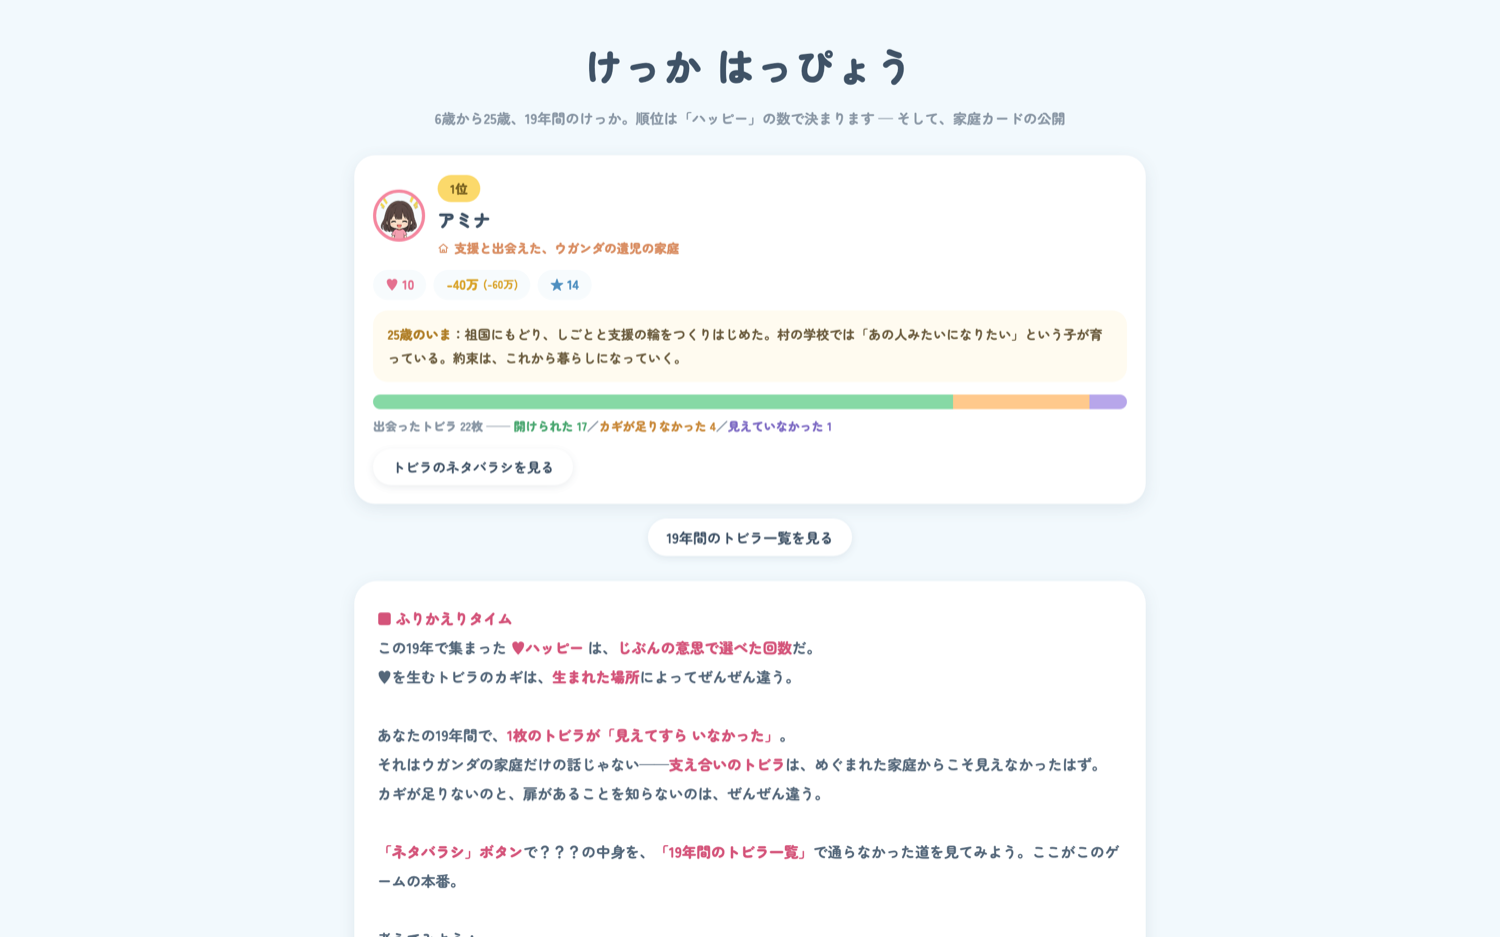
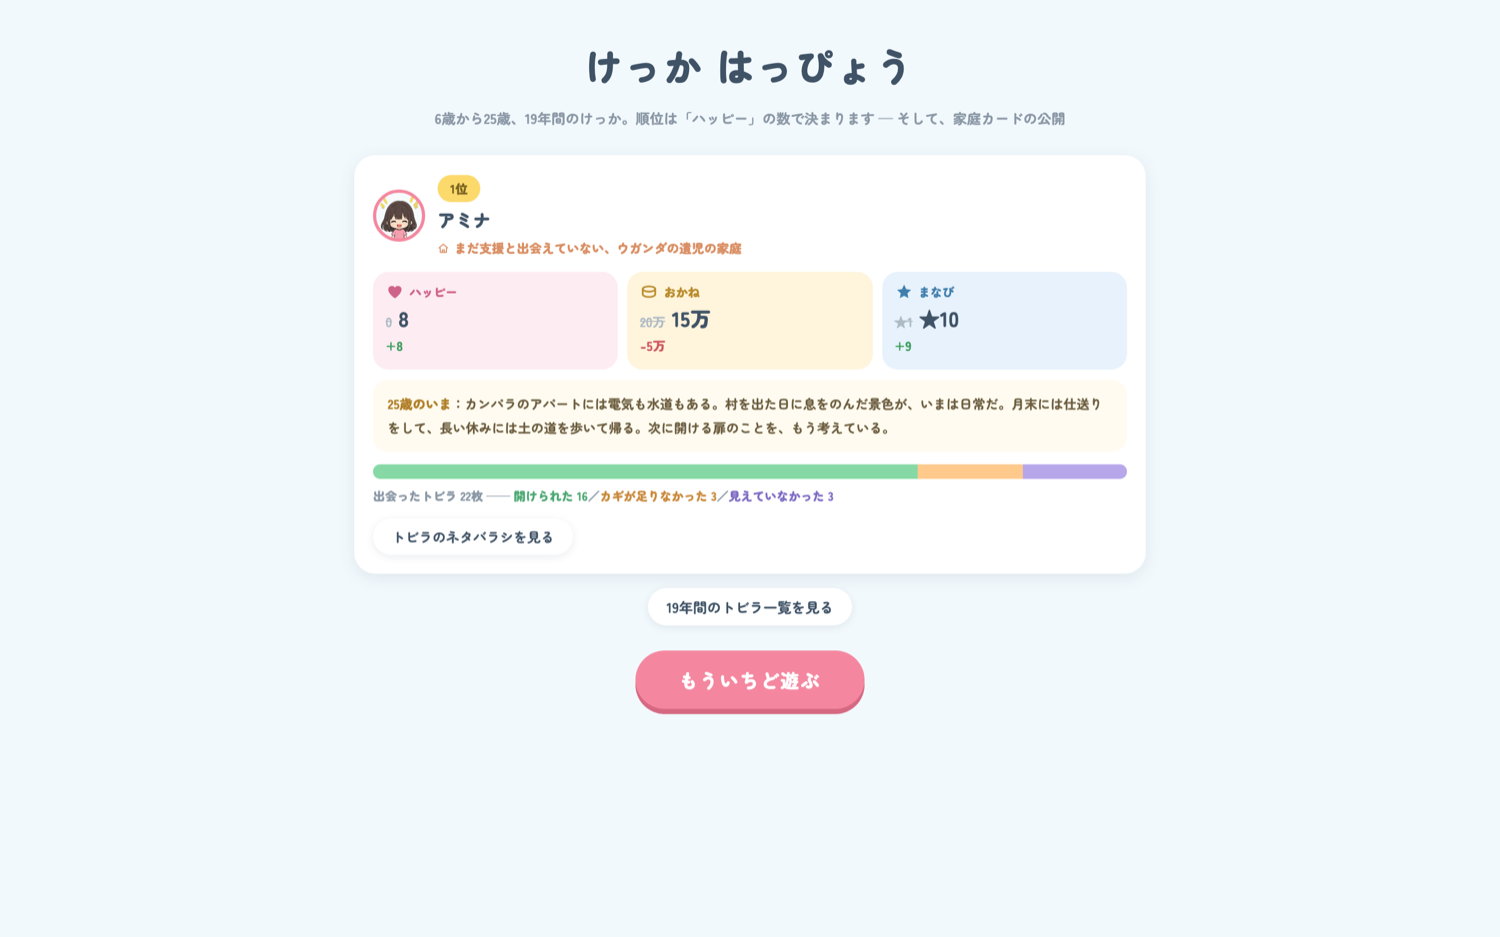
スライド側の更新をまとめてコミット（ふりかえりの一本化・全30枚化）
このチャットはゲーム側を担当しているため、以下はスライド側の作業を
そのまま取りこんだもの。本人の指示でまとめてコミットしている。

- SLIDES_BRIEF.md / SLIDES_SCRIPT.md / slides.html
  ふりかえりの7つの問いを、ゲームの結果画面からスライドへ一本化。
  問いの文言の正はスライド側になった。スライドは全30枚に
- slides/result.png を新しい結果画面で撮りなおし
- README.md 上記の経緯と、スライドの枚数を追従
- AGENTS.md 作業用のワークツリー運用メモ（新規）

ゲーム側（public/ と src/）はすでに aafcc3d までコミット済みで、
このコミットには含まれていない。

diff --git a/slides.html b/slides.html
@@ -469,25 +469,53 @@ h1 .em-g{color:var(--money);}
 <!-- ========== 18. 問い1 ========== -->
 <section class="slide" data-part="振り返り" data-ic="people">
   <div class="q-no">問い 1</div>
-  <p class="q-text">同じ「おしごと」マス・同じ★の数なのに、<br><b>かせぎが大きく違った</b>。<br>それは、本人の<b>努力の差</b>だった？</p>
+  <p class="q-text">同じ「おしごとマス」・同じ★の数なのに、<br><b>かせぎがぜんぜんちがった</b>。<br>それは本人の<b>努力のちがい</b>だろうか？</p>
   <p class="q-where"><svg class="ic"><use href="#ic-coin"/></svg>手元の結果画面の「おかね」を見くらべながら</p>
 </section>
 
 <!-- ========== 19. 問い2 ========== -->
 <section class="slide" data-part="振り返り" data-ic="people">
   <div class="q-no">問い 2</div>
-  <p class="q-text">あなたに<b>「？？？」</b>だった扉は、<br>チームの誰には<b>見えて</b>いた？<br>その差は、どこから来た？</p>
-  <p class="q-where"><svg class="ic"><use href="#ic-eye"/></svg>トビラ一覧の紫の行を、おたがいに見せあって</p>
+  <p class="q-text">ウガンダ育ちは、★を増やすだけでは<br>かせぎが伸びなかった。<br>「まなび」が実るために必要だった<br><b>もうひとつのカギ</b>は何だった？</p>
+  <p class="q-where"><svg class="ic"><use href="#ic-star"/></svg>家庭カードの「基本給＋★×掛け率」を思い出しながら</p>
 </section>
 
 <!-- ========== 20. 問い3 ========== -->
 <section class="slide" data-part="振り返り" data-ic="people">
   <div class="q-no">問い 3</div>
-  <p class="q-text">25歳のいま、あなたの手元に何が残った？<br>そして——私たちが世界の遺児に渡せる<br><b>「カギ」</b>は、何だろう？</p>
+  <p class="q-text">あなたの家庭カードから<b>見えなかった</b>のは、<br>どんなトビラだった？<br>逆に、<b>見えていた強み</b>は？</p>
+  <p class="q-where"><svg class="ic"><use href="#ic-eye"/></svg>トビラ一覧の紫の行を、おたがいに見せあって</p>
+</section>
+
+<!-- ========== 21. 問い4 ========== -->
+<section class="slide" data-part="振り返り" data-ic="people">
+  <div class="q-no">問い 4</div>
+  <p class="q-text">親を亡くしたウガンダの子には、<br>何が<b>「見えて」</b>いた？<br>それはなぜだろう？</p>
+  <p class="q-where"><svg class="ic"><use href="#ic-home"/></svg>遺児のカードだった人に、トビラ一覧を見せてもらいながら</p>
+</section>
+
+<!-- ========== 22. 問い5 ========== -->
+<section class="slide" data-part="振り返り" data-ic="people">
+  <div class="q-no">問い 5</div>
+  <p class="q-text">AAIの扉は<b>「ずるい」</b>？<br>——その扉には<b>「志」の約束</b>がついていた。<br>25歳のいま、その人はどこで何をしていた？</p>
+  <p class="q-where"><svg class="ic"><use href="#ic-cap"/></svg>AAIを選んだ人がいたら、「25歳のいま」を読んでもらおう</p>
+</section>
+
+<!-- ========== 23. 問い6 ========== -->
+<section class="slide" data-part="振り返り" data-ic="people">
+  <div class="q-no">問い 6</div>
+  <p class="q-text">今日あなたが持ってきたもの——<br>スマホ、無料の教科書、給食。<br>それは、<b>どの家庭カードの世界</b>のものだった？</p>
+  <p class="q-where"><svg class="ic"><use href="#ic-sun"/></svg>「3つの世界の朝」を思い出しながら</p>
+</section>
+
+<!-- ========== 24. 問い7 ========== -->
+<section class="slide" data-part="振り返り" data-ic="people">
+  <div class="q-no">問い 7</div>
+  <p class="q-text">日本にいる私たちが、<br>世界の遺児にわたせる<b>「カギ」</b>って、<br>何だろう？</p>
   <p class="q-where"><svg class="ic"><use href="#ic-heart"/></svg>正解はありません。話したくないことは話さなくて大丈夫です</p>
 </section>
 
-<!-- ========== 21. ゲームから現実へ ========== -->
+<!-- ========== 25. ゲームから現実へ ========== -->
 <section class="slide" data-part="振り返り" data-ic="globe">
   <div class="kicker pink"><svg class="ic"><use href="#ic-globe"/></svg>ゲームから現実へ</div>
   <h1>生まれた場所の差は、<br>連鎖していく</h1>
@@ -501,7 +529,7 @@ h1 .em-g{color:var(--money);}
   <p class="lead">そしてその差は、<b>次の世代の「生まれの差」</b>へ——。<br>ゲームで見た「？？？」も「カギ不足」も、いまの世界に実在します。</p>
 </section>
 
-<!-- ========== 22. だから支援がある ========== -->
+<!-- ========== 26. だから支援がある ========== -->
 <section class="slide" data-part="振り返り" data-ic="spark">
   <div class="kicker gold"><svg class="ic"><use href="#ic-spark"/></svg>だから、「支援」がある</div>
   <div class="steps">
@@ -512,14 +540,14 @@ h1 .em-g{color:var(--money);}
   </div>
 </section>
 
-<!-- ========== 23. 検証の入り口 ========== -->
+<!-- ========== 27. 検証の入り口 ========== -->
 <section class="slide" data-part="検証" data-ic="tools">
   <div class="kicker"><svg class="ic"><use href="#ic-tools"/></svg>ここからは、検証です</div>
   <h1>今度は<span class="em-b">「届ける側」</span>として、<br>いまの75分を振り返ってください</h1>
   <p class="lead">このゲームは、まだ完成していません。<br>今日みなさんが感じた<b>引っかかり</b>が、そのまま改善点になります。</p>
 </section>
 
-<!-- ========== 24. 気になるところの洗い出し ========== -->
+<!-- ========== 28. 気になるところの洗い出し ========== -->
 <section class="slide" data-part="検証" data-ic="check">
   <div class="kicker"><svg class="ic"><use href="#ic-check"/></svg>気になるところを、全部出してください</div>
   <div class="legend" style="grid-template-columns:repeat(2,1fr); width:80vw;">
@@ -535,14 +563,14 @@ h1 .em-g{color:var(--money);}
   <p class="lead">数字のバランス、扉の選択肢、エンディングの文章——<br><b>「ここは違うと思う」を、遠慮なく</b>。</p>
 </section>
 
-<!-- ========== 25. 感想共有 ========== -->
+<!-- ========== 29. 感想共有 ========== -->
 <section class="slide" data-part="感想" data-ic="heart">
   <div class="kicker pink"><svg class="ic"><use href="#ic-heart"/></svg>最後に、感想を聞かせてください</div>
   <h1>うまく言葉にならなくても<br>かまいません</h1>
   <p class="lead">今日いちばん心に残った場面。<br>自分のカードを見たときのこと、他の人のカードを知ったときのこと。<br><b>街頭に立つときの言葉が、ひとつでも変わったなら</b>——それを聞かせてください。</p>
 </section>
 
-<!-- ========== 26. おわり ========== -->
+<!-- ========== 30. おわり ========== -->
 <section class="slide" data-part="おわり" data-ic="door">
   <div class="door-mark"><span></span></div>
   <h1 style="font-size:6.4vmin;">ありがとうございました</h1>

diff --git a/SLIDES_SCRIPT.md b/SLIDES_SCRIPT.md
@@ -1,6 +1,6 @@
 # トビラ せかい版 ショート — 検証会 進行台本
 
-`slides.html`（全26枚）に対応したファシリテーター用の台本です。
+`slides.html`（全30枚）に対応したファシリテーター用の台本です。
 セリフはそのまま読み上げられる形で書いています。【 】は進行上の動き・注意です。
 
 **想定：あしなが学生募金の会議。学生 50〜80人。集まって各自の端末。90分。**
@@ -13,9 +13,9 @@
 | 導入 — このゲームは何を体験するものか | 1〜6 | 12分 | 0:00 |
 | ルール説明 | 7〜14 | 15分 | 0:12 |
 | プレイ | 15 | 25分 | 0:27 |
-| 振り返り | 16〜22 | 23分 | 0:52 |
-| 検証 | 23〜24 | 10分 | 1:15 |
-| 感想共有 | 25〜26 | 5分 | 1:25 |
+| 振り返り | 16〜26 | 23分 | 0:52 |
+| 検証 | 27〜28 | 10分 | 1:15 |
+| 感想共有 | 29〜30 | 5分 | 1:25 |
 
 ## この版の構成について（2026-09-12 に本人が決めた）
 
@@ -27,7 +27,12 @@
 - **伏せたままなのは「？？？」の中身のほう。** カードには「このさきN個の選択肢は？？？としか見えません」
   としか出ないので、**結果発表の種明かし（本当は何だったのか）は今までどおり効きます**
 
-→ この判断が正しかったかは、検証パート（スライド24）で学生に聞いてください。
+→ この判断が正しかったかは、検証パート（スライド28）で学生に聞いてください。
+
+**振り返りの問いは、このスライドに一本化しました（2026-09-13 に本人が決めた）。**
+以前はゲームの結果画面にも「ふりかえりタイム」の文章と問いが出ていましたが、
+進行スライドで振り返りをするため、ゲーム側からは削除しました（`insightBox`・`public/app.js`）。
+**問いの文言の正は、ゲームに入っていたほうの7問**で、スライドはそれをそのまま使っています。
 
 ## 事前準備チェック
 
@@ -263,30 +268,64 @@
 
 ## 18. 問い1 — かせぎの差
 
-> ここから3つ問いを出します。正解はありません。**話したくないことは話さなくて大丈夫です。**
+> ここから7つ、問いを出します。正解はありません。**話したくないことは話さなくて大丈夫です。**
 >
-> ひとつめ。同じ「おしごと」マスに止まって、同じ★の数なのに、かせぎが大きく違った人がいましたね。
-> あれは、本人の**努力の差**だったでしょうか。
+> ひとつめ。同じ「おしごとマス」・同じ★の数なのに、かせぎがぜんぜんちがった人がいましたね。
+> それは、本人の**努力のちがい**だろうか？
 
+【1問あたり2分弱。時間が押していたら 問い3・4・6 を飛ばし、1・2・5・7 を残す】
 【引き出したい答え：基本給も掛け率も生まれた場所で決まっていた。本人にはどうしようもなかった】
 【おしごとマスに止まらなかった人が3割いる。結果画面の「おかね」の差を材料にしてよい】
 
-## 19. 問い2 — ？？？の差
+## 19. 問い2 — もうひとつのカギ
 
-> ふたつめ。あなたに「？？？」だった扉は、**チームの誰には見えていた**でしょうか。
-> その差は、どこから来たんでしょう。
+> ウガンダ育ちは、★を増やすだけではかせぎが伸びませんでした。
+> 「まなび」が実るために必要だった、**もうひとつのカギ**は何だったと思いますか。
 
-【トビラ一覧の紫の行を、実際に見せあわせる。「支援を知っているかどうか」に着地させる】
+【引き出したい答え：学びが活きる場・仕事につながること。「学べば報われる」は場が用意されている人の話】
+【★×5万と★×10万。数字は家庭カードに書いてあったことを思い出させる】
+
+## 20. 問い3 — 見えなかったトビラ
+
+> あなたの家庭カードから**見えなかった**のは、どんなトビラでしたか。
+> 逆に、**見えていた強み**は何でしたか。
+
+【トビラ一覧の紫の行を、実際に見せあわせる】
 【めぐまれた家庭にも見えなかった扉（支え合い系）がある。「見えない＝かわいそう」で終わらせない】
 
-## 20. 問い3 — 渡せるカギ
+## 21. 問い4 — 遺児の子に見えていたもの
 
-> 最後です。25歳のいま、あなたの手元に何が残りましたか。
-> そして——私たちが世界の遺児に渡せる**「カギ」**は、何だと思いますか。
+> 親を亡くしたウガンダの子には、何が**「見えて」**いましたか。
+> それは、なぜでしょう。
 
-【ここは答えを用意しない。次の3枚が、そのまま答えの一部になる】
+【答えの芯：支援と出会えた遺児には、奨学金・支援の扉がすべて見えていた。「出会い」自体が力になる】
+【遺児カードだった人にトビラ一覧を見せてもらう。無理には求めない】
 
-## 21. ゲームから現実へ
+## 22. 問い5 — AAIの扉は「ずるい」？
+
+> AAIの扉は、「ずるい」でしょうか。
+> ——あの扉には、**「志」の約束**がついていました。
+> 25歳のいま、その人はどこで、何をしていましたか。
+
+【「支援があるほうが有利では」という感情を、ここで正面から出させる】
+【AAIを選んだ人の「25歳のいま」のエンディングが、ちょうどいい反証になる。読み上げてもらう】
+【学生募金の学生には刺さる問い。急がず、いちばん時間をとってよい】
+
+## 23. 問い6 — 今日持ってきたもの
+
+> 今日あなたが持ってきたもの——スマホ、無料の教科書、給食。
+> それは、**どの家庭カードの世界**のものだったでしょうか。
+
+【文言はゲームに入っていた問いのまま（学校向け）。大学生相手なので「今日ここに持ってきたもの」と読みかえてよい】
+【導入の「3つの世界の朝」に戻る問い。自分の日常がどのカードの上にあるか】
+
+## 24. 問い7 — わたせるカギ
+
+> 最後です。日本にいる私たちが、世界の遺児にわたせる**「カギ」**って、何だと思いますか。
+
+【ここは答えを用意しない。次の2枚が、そのまま答えの一部になる】
+
+## 25. ゲームから現実へ
 
 > ゲームで起きていたことを並べます。
 > **生まれの差**——初期資金と基本給が違った。
@@ -296,7 +335,7 @@
 > この差は、**次の世代の「生まれの差」**になっていきます。
 > ゲームで見た「？？？」も「鍵マーク」も、いまの世界に実在します。
 
-## 22. だから、「支援」がある
+## 26. だから、「支援」がある
 
 > この連鎖は、**本人の努力だけでは断ち切れません**。だから世界には、遺児を支える仕組みと人がいます。
 >
@@ -315,13 +354,13 @@
 
 # 検証（10分）
 
-## 23. ここからは、検証です
+## 27. ここからは、検証です
 
 > ……で、ここからが本題です。
 > このゲーム、まだ完成していません。今日はみなさんに**テストプレイ**をしてもらいました。
 > 今度は「届ける側」として、いまの75分を振り返ってください。
 
-## 24. 気になるところを、全部出してください
+## 28. 気になるところを、全部出してください
 
 > 4つの角度で聞かせてください。
 > **時間**——25分で終わりましたか。長すぎた、短すぎたのはどこですか。
@@ -340,7 +379,7 @@
 
 # 感想共有（5分）
 
-## 25. 感想を聞かせてください
+## 29. 感想を聞かせてください
 
 > 最後に、感想を聞かせてください。うまく言葉にならなくてもかまいません。
 >
@@ -349,7 +388,7 @@
 
 【ここは問いを立てず、ざっくばらんに。手が挙がらなければ、スタッフが一人目を引き受ける】
 
-## 26. ありがとうございました
+## 30. ありがとうございました
 
 > 今日はありがとうございました。
 > あなたの前にも、世界のどこかの子の前にも、まだ見ぬトビラがたくさんあります。

diff --git a/README.md b/README.md
@@ -188,8 +188,21 @@ npx wrangler dev       # http://localhost:8787
 ### 人数：2〜6人 → 1〜4人
 
 - ロビーの開始条件 `players.length >= 1`、上限4
-- 1人プレイでは結果発表の「見くらべ」が成立しないので、**ネタバラシとトビラ一覧が主役**になるよう、
-  ふりかえりの文言と `endingText(p, solo)` を1人用に切り替えている
+- 1人プレイでは結果発表の「見くらべ」が成立しないので、**ネタバラシとトビラ一覧が主役**。
+  `endingText(p, solo)` の文面を1人用に切り替えている
+
+### 結果画面の「ふりかえりタイム」は出さない（スライドに一本化）
+
+**2026-09-13 に本人の指示で削除。** 結果画面に出していた ふりかえりの文章と7つの問い（`insightBox`）は、
+検証会では進行スライドで振り返りをするため、二重になっていた。
+
+- 削除したのは `insightBox`（要素・CSS・描画）。**7つの問いの文言はスライド（`slides.html`）に移した**。
+  問いの文言の正はスライド側になった
+- 結果画面に残っているのは、順位・家庭カード公開・エンディング・出会ったトビラの内訳バーと
+  **各自の「ネタバラシ」ボタン**。ゲームを1人で確認する人は、ネタバラシとトビラ一覧を直接開く
+- ヘルプ（？ボタン）の「全員ゴールしたらふりかえりタイム」も「結果発表。ネタバラシで確かめよう」に変更
+- **本番版（door-world-online）には insightBox がまだある。** 本番のワークショップも
+  スライド進行なら、同じ判断を検討する余地がある（このリポジトリからは触らない）
 
 ### 奨学金は、25歳では返し終わらない
 
@@ -232,7 +245,7 @@ Cloudflare Workers + Durable Objects（無料枠）。
 | `test/ops.mjs` | 進行役むけ操作と、選択肢の秘匿のテスト |
 | `test/short.mjs` | **ショート版だけのテスト**（下記） |
 | `wrangler.toml` | Durable Object は SQLite バックエンド（無料枠の条件） |
-| `slides.html` | **検証会の進行スライド**（全26枚）。ブラウザで開いて `F` で全画面、`←`/`→` かタップで送る |
+| `slides.html` | **検証会の進行スライド**（全30枚）。ブラウザで開いて `F` で全画面、`←`/`→` かタップで送る |
 | `slides/*.png` | スライドに貼ったゲーム画面のスクリーンショット（PC・1440×900で撮影）。`slides.html` と同じ場所に置いたまま使う |
 | `SLIDES_SCRIPT.md` | 上の読み上げ台本と進行メモ。**会のまえに必ず読むこと**（当事者への配慮の項がある） |
 | `SLIDES_BRIEF.md` | スライドを作るための指示書 |

diff --git a/SLIDES_BRIEF.md b/SLIDES_BRIEF.md
@@ -90,18 +90,19 @@
 早期結婚はしばしば選択ではなく選択肢が消えた結果なのでトビラの文法に合わない／
 遊ぶ人が当事者かもしれない。加えて、ふりかえりで言葉だけ触れるのも難しいと判断した）
 
-### ゲーム内のふりかえりの問い（スライドと揃える）
+### ふりかえりの問いは、スライドが正（2026-09-13 に一本化）
 
-ゲームの結果画面にも「🗣 話してみよう」が出ます（`public/app.js` の `insightBox`）。
-スライドの問いはこれと揃えてください。1人プレイのときは文面が切り替わる作りになっています。
+以前はゲームの結果画面にも「ふりかえりタイム」と7つの問いが出ていた（`insightBox`）が、
+進行スライドで振り返りをするため**ゲーム側からは削除した**。二重に出さない。
+**問いの正は `slides.html` の問い1〜7**（元はゲームに入っていた文言そのまま）：
 
-- 同じおしごとマス・同じ★なのに、かせぎがぜんぜんちがった。それは努力のちがいだろうか？
-- ウガンダ育ちは★を増やすだけではかせぎが伸びなかった。まなびが実るためのもうひとつのカギは？
+- 同じ「おしごとマス」・同じ★の数なのに、かせぎがぜんぜんちがった。それは本人の努力のちがいだろうか？
+- ウガンダ育ちは、★を増やすだけではかせぎが伸びなかった。「まなび」が実るために必要だったもうひとつのカギは何だった？
 - あなたの家庭カードから見えなかったのは、どんなトビラだった？　逆に、見えていた強みは？
-- 親を亡くしたウガンダの子には、何が「見えて」いた？　それはなぜ？
-- AAIの扉は「ずるい」？
-- 今日あなたが持ってきたもの——スマホ、無料の教科書、給食。それはどの家庭カードの世界のもの？
-- 日本にいる私たちが、世界の遺児にわたせる「カギ」って何だろう？
+- 親を亡くしたウガンダの子には、何が「見えて」いた？　それはなぜだろう？
+- AAIの扉は「ずるい」？——その扉には「志」の約束がついていた。25歳のいま、その人はどこで何をしていた？
+- 今日あなたが持ってきたもの——スマホ、無料の教科書、給食。それは、どの家庭カードの世界のものだった？
+- 日本にいる私たちが、世界の遺児にわたせる「カギ」って、何だろう？
 
 ---
 

diff --git a/AGENTS.md b/AGENTS.md
@@ -1,0 +1,7 @@
+# Worktree policy
+
+- Before making changes for any new task in this project, create a fresh Git worktree under `/Users/arisa/door-world-short/.claude/worktrees/` and perform all task work from that worktree.
+- Create a new, uniquely named worktree and branch for each task. Do not reuse an existing task worktree.
+- Once the current task is already running from a worktree under that directory, continue there; do not create recursively nested worktrees.
+- Treat the primary checkout at `/Users/arisa/door-world-short` as the worktree-management location only. Except when the user explicitly requests otherwise, do not edit project files there.
+- Preserve all uncommitted changes in the primary checkout. Do not move, discard, reset, or overwrite them when creating a task worktree.
